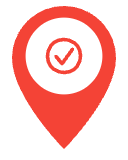
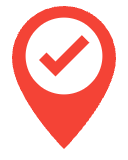
Show been/want-to-visit variants for list spot map pins
List spots the user has been to or wants to visit now use dedicated
list pins on Explore (list filter) and the spot list detail map.
Also refreshes existing map pin artwork and adds the source SVG glyphs.

Changed region(s): [[0.3125, 0.2188, 0.7188, 0.5]]

diff --git a/lib/screens/spots/spot_list_detail_screen.dart b/lib/screens/spots/spot_list_detail_screen.dart
@@ -66,6 +66,10 @@ class _SpotListDetailScreenState extends State<SpotListDetailScreen> {
   GoogleMapController? _mapController;
   BitmapDescriptor? _spotHighlightedIcon;
   BitmapDescriptor? _spotSelectedHighlightedIcon;
+  BitmapDescriptor? _spotWantToVisitIcon;
+  BitmapDescriptor? _spotWantToVisitSelectedIcon;
+  BitmapDescriptor? _spotVisitedIcon;
+  BitmapDescriptor? _spotVisitedSelectedIcon;
   Spot? _selectedSpot; // Currently selected/highlighted spot
   final ScrollController _scrollController = ScrollController();
   String? _creatorName;
@@ -109,10 +113,37 @@ class _SpotListDetailScreenState extends State<SpotListDetailScreen> {
             fallbackFill: MarkerIconUtils.mapPinListFallbackFill,
             logicalHeight: h,
           );
+      final BitmapDescriptor wantToVisitPin =
+          await MarkerIconUtils.loadMapPinPng(
+            MarkerIconUtils.mapPinListWantToVisitAsset,
+            fallbackFill: MarkerIconUtils.mapPinListFallbackFill,
+            logicalHeight: h,
+          );
+      final BitmapDescriptor wantToVisitSelectedPin =
+          await MarkerIconUtils.loadMapPinPng(
+            MarkerIconUtils.mapPinListWantToVisitSelectedAsset,
+            fallbackFill: MarkerIconUtils.mapPinListFallbackFill,
+            logicalHeight: h,
+          );
+      final BitmapDescriptor visitedPin = await MarkerIconUtils.loadMapPinPng(
+        MarkerIconUtils.mapPinListBeenAsset,
+        fallbackFill: MarkerIconUtils.mapPinListFallbackFill,
+        logicalHeight: h,
+      );
+      final BitmapDescriptor visitedSelectedPin =
+          await MarkerIconUtils.loadMapPinPng(
+            MarkerIconUtils.mapPinListBeenSelectedAsset,
+            fallbackFill: MarkerIconUtils.mapPinListFallbackFill,
+            logicalHeight: h,
+          );
       if (mounted) {
         setState(() {
           _spotHighlightedIcon = listPin;
           _spotSelectedHighlightedIcon = listSelectedPin;
+          _spotWantToVisitIcon = wantToVisitPin;
+          _spotWantToVisitSelectedIcon = wantToVisitSelectedPin;
+          _spotVisitedIcon = visitedPin;
+          _spotVisitedSelectedIcon = visitedSelectedPin;
         });
       }
     } catch (_) {
@@ -859,15 +890,47 @@ class _SpotListDetailScreenState extends State<SpotListDetailScreen> {
     return calculateBoundsForSpots(_mapSpots);
   }
 
-  Set<Marker> _buildMarkers() {
+  /// List pin for [spot], swapped for the been / want-to-visit list variant
+  /// when the signed-in user tracks it (visited wins, matching Explore).
+  BitmapDescriptor _listSpotMarkerIcon({
+    required Spot spot,
+    required bool isSelected,
+    required Set<String> visitedIds,
+    required Set<String> wantToVisitIds,
+  }) {
+    final String? id = spot.id;
+    if (id != null && visitedIds.contains(id)) {
+      final icon = isSelected ? _spotVisitedSelectedIcon : _spotVisitedIcon;
+      if (icon != null) return icon;
+    } else if (id != null && wantToVisitIds.contains(id)) {
+      final icon = isSelected
+          ? _spotWantToVisitSelectedIcon
+          : _spotWantToVisitIcon;
+      if (icon != null) return icon;
+    }
+    return (isSelected ? _spotSelectedHighlightedIcon : _spotHighlightedIcon) ??
+        BitmapDescriptor.defaultMarker;
+  }
+
+  Set<Marker> _buildMarkers(AuthService authService) {
+    final profile = authService.isAuthenticated
+        ? authService.userProfile
+        : null;
+    final Set<String> visitedIds = (profile?.visited ?? const <String>[])
+        .toSet();
+    final Set<String> wantToVisitIds =
+        (profile?.wantToVisit ?? const <String>[]).toSet();
     return MarkerIconUtils.sortSpotsForMapDrawOrder(_mapSpots).map((spot) {
       final bool isSelected = _selectedSpot?.id != null
           ? _selectedSpot!.id == spot.id
           : _selectedSpot?.name == spot.name;
 
-      final BitmapDescriptor icon = isSelected
-          ? (_spotSelectedHighlightedIcon ?? BitmapDescriptor.defaultMarker)
-          : (_spotHighlightedIcon ?? BitmapDescriptor.defaultMarker);
+      final BitmapDescriptor icon = _listSpotMarkerIcon(
+        spot: spot,
+        isSelected: isSelected,
+        visitedIds: visitedIds,
+        wantToVisitIds: wantToVisitIds,
+      );
 
       return Marker(
         markerId: MarkerId(spot.id ?? spot.name),
@@ -981,7 +1044,7 @@ class _SpotListDetailScreenState extends State<SpotListDetailScreen> {
               key: ValueKey(_mapMembershipKey),
               initialCameraPosition: initialCameraPosition,
               mapType: _isSatelliteView ? MapType.hybrid : MapType.normal,
-              markers: _buildMarkers(),
+              markers: _buildMarkers(context.watch<AuthService>()),
               onMapCreated: (GoogleMapController controller) {
                 _mapController = controller;
                 // Fit bounds after map is created

diff --git a/lib/screens/spots/search_screen.dart b/lib/screens/spots/search_screen.dart
@@ -347,6 +347,10 @@ class SearchScreenState extends State<SearchScreen>
   BitmapDescriptor? _spotWantToVisitSelectedIcon;
   BitmapDescriptor? _spotVisitedIcon;
   BitmapDescriptor? _spotVisitedSelectedIcon;
+  BitmapDescriptor? _spotListWantToVisitIcon;
+  BitmapDescriptor? _spotListWantToVisitSelectedIcon;
+  BitmapDescriptor? _spotListVisitedIcon;
+  BitmapDescriptor? _spotListVisitedSelectedIcon;
   BitmapDescriptor? _addSpotPinIcon;
   AuthService? _authServiceRef;
   Set<String> _wantToVisitSpotIds = {};
@@ -2459,6 +2463,20 @@ class SearchScreenState extends State<SearchScreen>
           BitmapDescriptor.defaultMarker;
     }
     if (isHighlighted) {
+      switch (trackingStatus) {
+        case _SpotTrackingStatus.visited:
+          final icon = isSelected
+              ? _spotListVisitedSelectedIcon
+              : _spotListVisitedIcon;
+          if (icon != null) return icon;
+        case _SpotTrackingStatus.wantToVisit:
+          final icon = isSelected
+              ? _spotListWantToVisitSelectedIcon
+              : _spotListWantToVisitIcon;
+          if (icon != null) return icon;
+        case null:
+          break;
+      }
       return (isSelected
               ? _spotSelectedHighlightedIcon
               : _spotHighlightedIcon) ??
@@ -2699,6 +2717,30 @@ class SearchScreenState extends State<SearchScreen>
             fallbackFill: MarkerIconUtils.mapPinNormalFallbackFill,
             logicalHeight: browsePinHeight,
           );
+      final BitmapDescriptor listWantToVisitPin =
+          await MarkerIconUtils.loadMapPinPng(
+            MarkerIconUtils.mapPinListWantToVisitAsset,
+            fallbackFill: MarkerIconUtils.mapPinListFallbackFill,
+            logicalHeight: browsePinHeight,
+          );
+      final BitmapDescriptor listWantToVisitSelectedPin =
+          await MarkerIconUtils.loadMapPinPng(
+            MarkerIconUtils.mapPinListWantToVisitSelectedAsset,
+            fallbackFill: MarkerIconUtils.mapPinListFallbackFill,
+            logicalHeight: browsePinHeight,
+          );
+      final BitmapDescriptor listVisitedPin =
+          await MarkerIconUtils.loadMapPinPng(
+            MarkerIconUtils.mapPinListBeenAsset,
+            fallbackFill: MarkerIconUtils.mapPinListFallbackFill,
+            logicalHeight: browsePinHeight,
+          );
+      final BitmapDescriptor listVisitedSelectedPin =
+          await MarkerIconUtils.loadMapPinPng(
+            MarkerIconUtils.mapPinListBeenSelectedAsset,
+            fallbackFill: MarkerIconUtils.mapPinListFallbackFill,
+            logicalHeight: browsePinHeight,
+          );
       final BitmapDescriptor addPin = await MarkerIconUtils.loadMapPinPng(
         MarkerIconUtils.mapPinAddAsset,
         fallbackFill: MarkerIconUtils.mapPinAddFallbackFill,
@@ -2722,6 +2764,10 @@ class SearchScreenState extends State<SearchScreen>
           _spotWantToVisitSelectedIcon = wantToVisitSelectedPin;
           _spotVisitedIcon = visitedPin;
           _spotVisitedSelectedIcon = visitedSelectedPin;
+          _spotListWantToVisitIcon = listWantToVisitPin;
+          _spotListWantToVisitSelectedIcon = listWantToVisitSelectedPin;
+          _spotListVisitedIcon = listVisitedPin;
+          _spotListVisitedSelectedIcon = listVisitedSelectedPin;
           _addSpotPinIcon = addPin;
           _eventIcon = eventPin;
           _eventSelectedIcon = eventSelectedPin;

diff --git a/lib/utils/marker_icon_utils.dart b/lib/utils/marker_icon_utils.dart
@@ -56,6 +56,22 @@ class MarkerIconUtils {
   static const String mapPinBeenSelectedAsset =
       'assets/images/map/map-icon-been-64x64-selected.png';
 
+  /// Spot in the active list filter that the user marked as want to visit.
+  static const String mapPinListWantToVisitAsset =
+      'assets/images/map/map-icon-list-want-to-visit-64x64.png';
+
+  /// Selected list spot marked as want to visit.
+  static const String mapPinListWantToVisitSelectedAsset =
+      'assets/images/map/map-icon-list-want-to-visit-64x64-selected.png';
+
+  /// Spot in the active list filter that the user marked as been to.
+  static const String mapPinListBeenAsset =
+      'assets/images/map/map-icon-list-been-64x64.png';
+
+  /// Selected list spot marked as been to.
+  static const String mapPinListBeenSelectedAsset =
+      'assets/images/map/map-icon-list-been-64x64-selected.png';
+
   /// Spot pin for UI chrome (Explore mode toggle, legends).
   static const String mapPinSpotLegendAsset =
       'assets/images/map/map-icon-spot-legend.svg';
